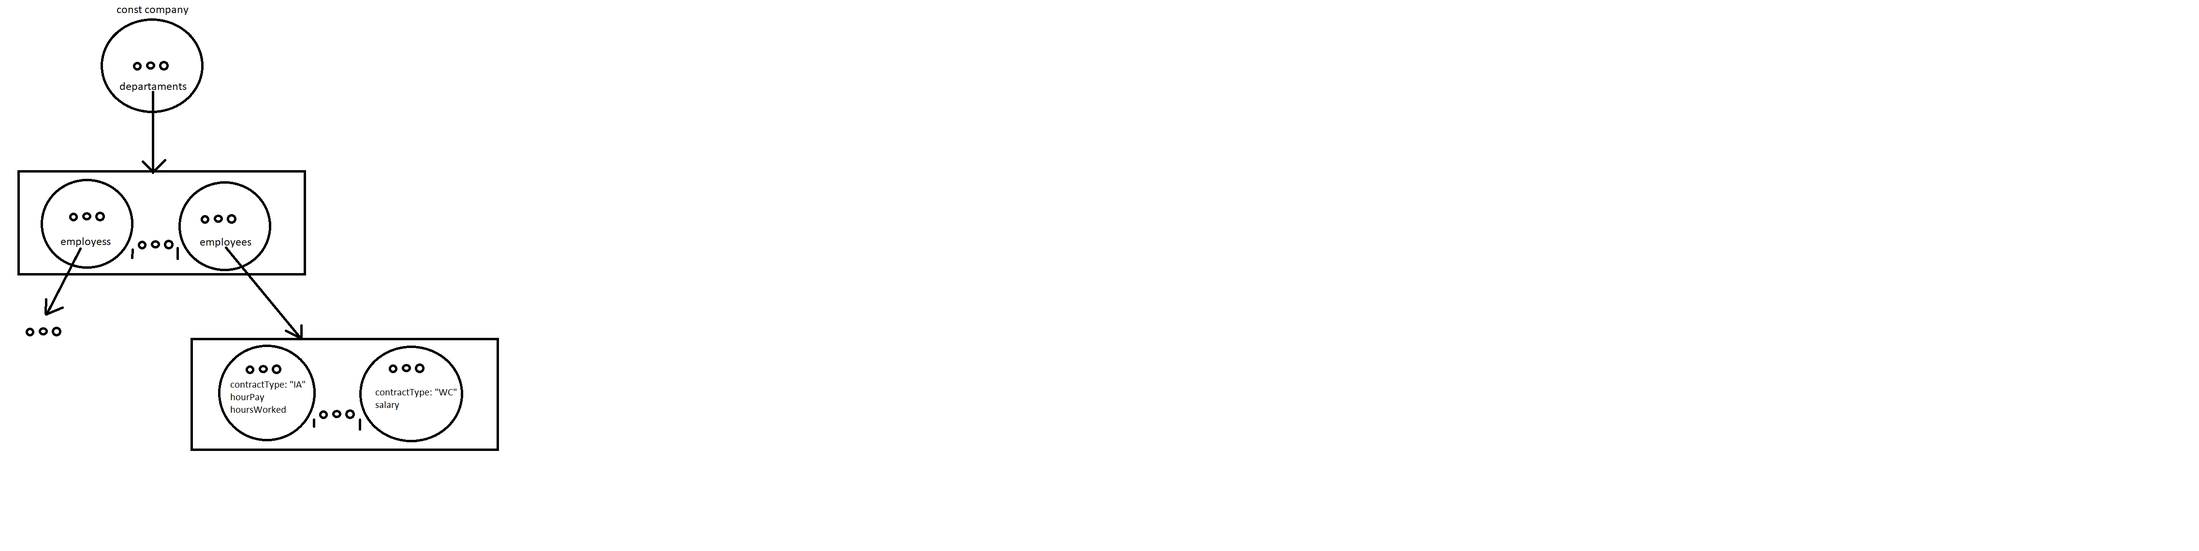
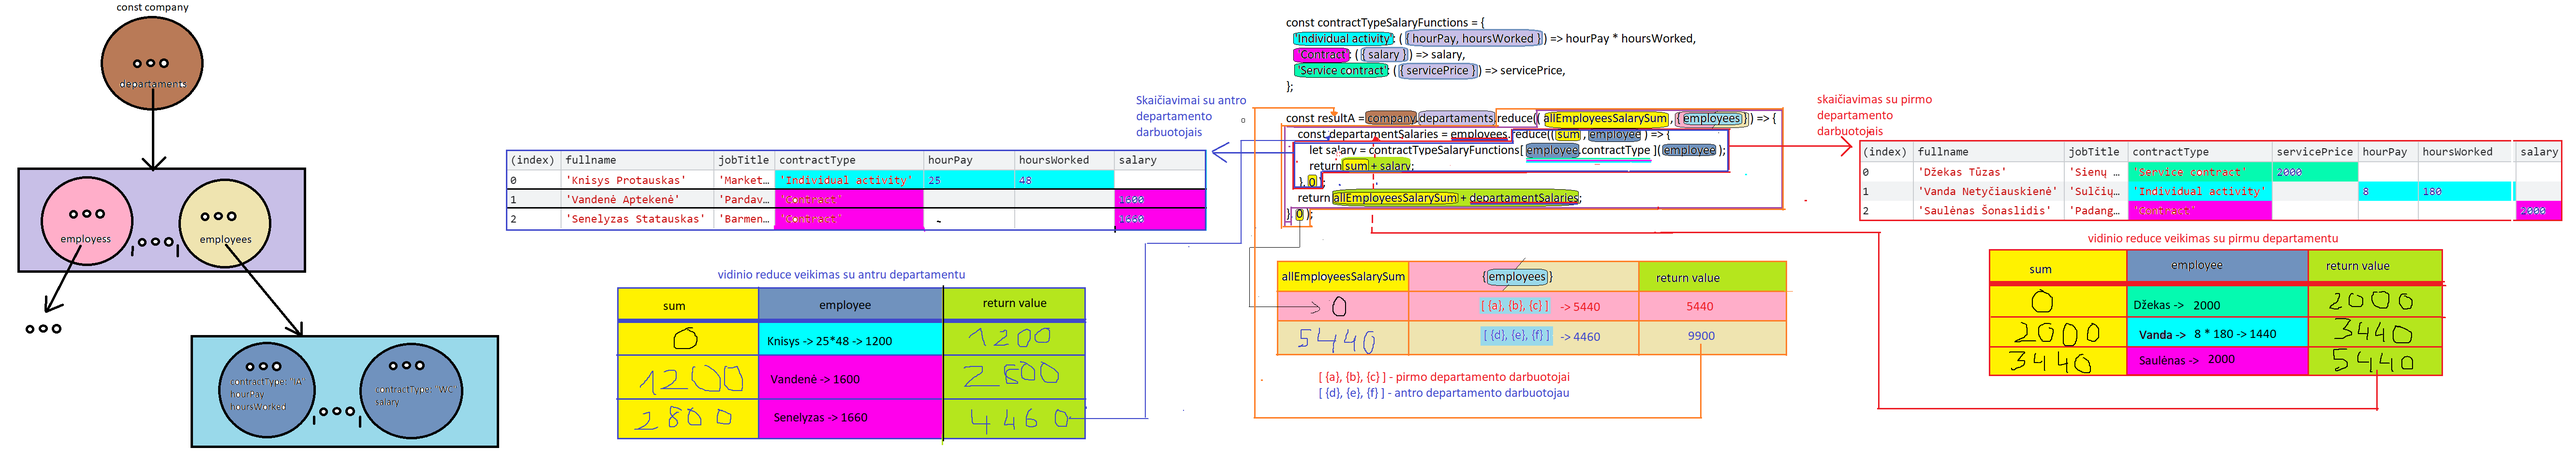
lesson 28: function hierarchy analysis - A

diff --git a/JavaScript/28 pamoka - funkcijų kvietinių hierarchija 2/employeeSalaries.js b/JavaScript/28 pamoka - funkcijų kvietinių hierarchija 2/employeeSalaries.js
@@ -48,18 +48,20 @@ const company = {
       ]
     }
   ]
-}
+};
+
+const contractTypeSalaryFunctions = {
+  'Individual activity': ({ hourPay, hoursWorked }) => hourPay * hoursWorked,
+  'Contract': ({ salary }) => salary,
+  'Service contract': ({ servicePrice }) => servicePrice,
+};
 
 // Suskaičiuoti, kokią sumą reikia išmokėti darbuotojams
 
 // Sprendimas A
 //    1. Skaičiuojame kiekvieno departamento darbuotojų atlyginimus, ir sumuojame kiekvieno departamento darbuotojų atlyginimo sumas
-const contractTypeSalaryFunctions = {
-  'Individual activity': ({ hourPay, hoursWorked }) => hourPay * hoursWorked,
-  'Contract': ({ salary }) => salary,
-  'Service contract': ({ servicePrice }) => servicePrice,
-}
 const resultA = company.departaments.reduce((allEmployeesSalarySum, { employees }) => {
+  console.table(employees);
   const departamentSalaries = employees.reduce((sum, employee) => {
     let salary = contractTypeSalaryFunctions[employee.contractType](employee);
     return sum + salary;
